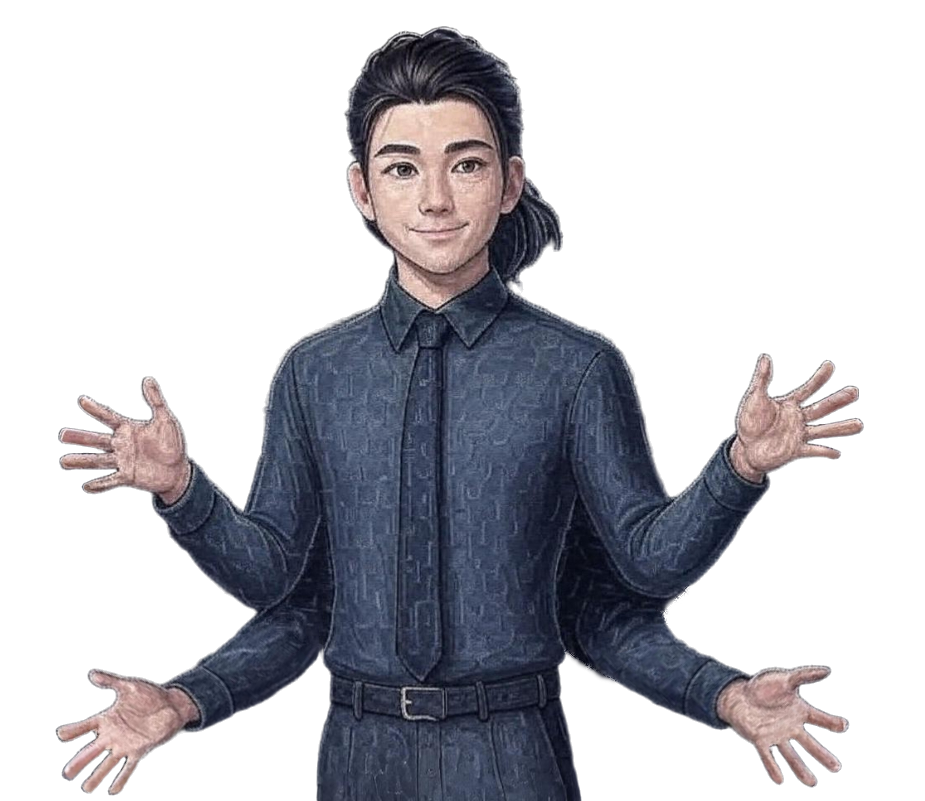
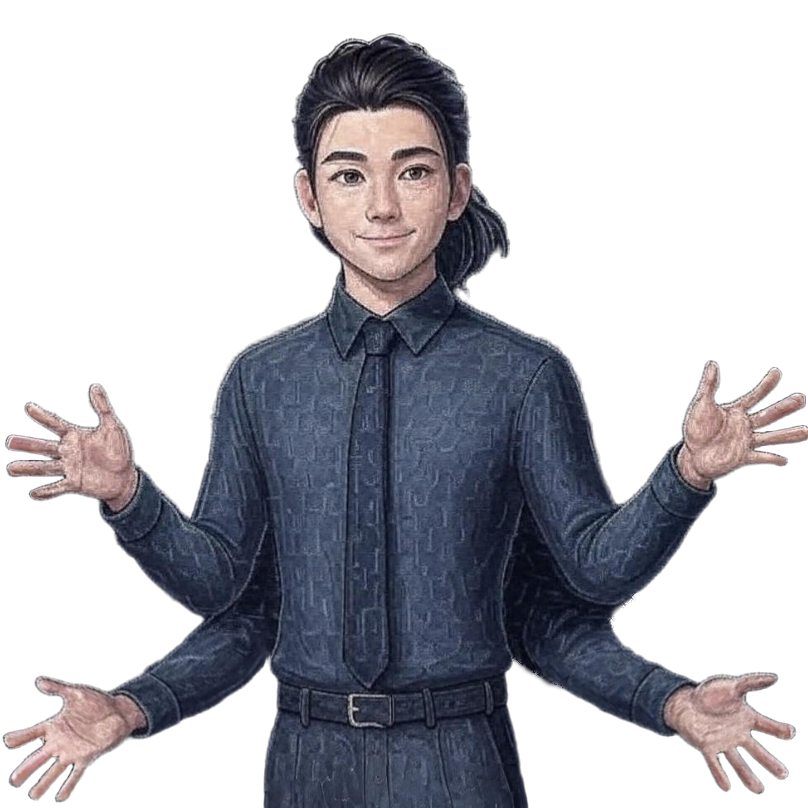
about Page personalized

Changed region(s): [[0.0, 0.0312, 1.0, 1.0]]

diff --git a/src/components/About.tsx b/src/components/About.tsx
@@ -1,63 +1,85 @@
-import { User2, Code2, Lightbulb } from "lucide-react";
+import {
+  User2,
+  Code2,
+  Lightbulb,
+  Laptop2,
+  Hammer,
+  Clock4,
+  Smile,
+  UserCheck,
+  HeartHandshake,
+  GlobeLock,
+} from "lucide-react";
 import { GoGoal } from "react-icons/go";
 import { SectionTitle } from "./ui/SectionTitle";
 
+import { BadgeCheck, Wrench, Globe2, Handshake } from "lucide-react";
+import { useState } from "react";
+
 const aboutSections = [
   {
-    icon: User2,
-    title: "Who I Am",
+    icon: BadgeCheck,
+    title: "Developer at Heart",
     description: [
-      "A full-stack developer having interest in software engineering.",
-      "Enjoy solving problems and building scalable applications.",
-      "Always learning new technologies to improve my skills.",
+      "29 y/o full-stack developer with 6+ years of hands-on experience.",
+      "Driven by curiosity, focused on clean, scalable systems.",
+      "Always evolving with new technologies.",
     ],
     color: "bg-blue-600",
+    image: "/assets/4hndsfullleft.png",
   },
   {
-    icon: Code2,
-    title: "What I Do",
+    icon: Hammer,
+    title: "Build & Boost",
     description: [
-      "Develop high-performance web apps using modern tech stacks.",
-      "Solve algorithmic problems and optimize code efficiency.",
-      "Contribute to open-source and follow industry trends.",
+      "New product? I’ll build it with the best-fit stack just for you.",
+      "Got code? I’ll optimize your code for speed, structure, and design.",
+      "Need consult? I’ll guide you to the smartest tech decisions.",
     ],
     color: "bg-purple-600",
+    image: "/assets/4hndsfullright.png",
   },
   {
-    icon: GoGoal,
-    title: "My Goals",
+    icon: Globe2,
+    title: "Timezone Friendly",
     description: [
-      "Build tech products that solve real-world challenges at scale.",
-      "Advance as a full-stack developer with modern frameworks.",
-      "Grow the dev community through open-source contributions.",
+      "Wherever you are, I adjust to your working hours.",
+      "Real-time updates, no missed messages or delays.",
+      "Your workflow stays smooth — across any time zone.",
     ],
     color: "bg-green-600",
+    image: "/assets/4hndsfulldleft.png",
   },
   {
-    icon: Lightbulb,
-    title: "My Philosophy",
+    icon: HeartHandshake,
+    title: "Easy to Work With",
     description: [
-      "Technology should simplify lives, not complicate them.",
-      "Great software solves problems, not just writes code.",
-      "Continuous learning keeps you ahead in tech.",
+      "Clear, calm, and collaborative.",
+      "Soft skills that make shipping smooth.",
+      "People-first mindset, always.",
     ],
     color: "bg-orange-600",
+    image: "/assets/4hndsfulldright.png",
   },
 ];
 
 export function About() {
+  const [activeImage, setActiveImage] = useState("/assets/4hndsfull.png");
   return (
-    <section id="about" className="min-h-screen py-20 relative overflow-hidden snap-start">
+    <section
+      id="about"
+      className="min-h-screen py-20 relative overflow-hidden snap-start"
+    >
       {/* Background Elements */}
       {/* <div className="absolute inset-0 bg-gradient-to-br from-blue-50 to-purple-50 dark:from-gray-900 dark:to-gray-800">
         <div className="absolute inset-0 bg-grid-pattern opacity-[0.06]" />
       </div> */}
 
       <div className="container mx-auto px-6 relative">
-        <SectionTitle>About Me</SectionTitle>
+        {/* <SectionTitle>About Me</SectionTitle> */}
 
         {/* Introduction */}
-        <div className="max-w-5xl mx-auto mb-16 text-center">
+        {/* <div className="max-w-5xl mx-auto mb-16 text-center">
           <p className="text-base sm:text-lg text-gray-700 dark:text-gray-300 leading-relaxed">
             Hey there! 👋 I'm <span className="text-blue-600 font-semibold">Deepak Modi</span>,
             a Full-Stack Developer and final-year Computer Science Engineering student.
@@ -70,32 +92,63 @@ export function About() {
               🚀 I like to build products and solve problems
             </span>
           </div>
-        </div>
+        </div> */}
+        {/* <img
+          src="/assets/4hndsGreen.png"
+          alt="Soheil Asami"
+          className="hidden md:block md:absolute w-full max-w-lg mx-auto md:top-[35%] lg:top-[40%]  md:left-1/2 md:-translate-x-1/2 md:-translate-y-1/2"
+        /> */}
+        <img  src={activeImage}
 
+          alt="Soheil Asami"
+          className="hidden md:block md:absolute w-full max-w-lg mx-auto md:top-[55%] lg:top-[60%]  md:left-1/2 md:-translate-x-1/2 md:-translate-y-1/2"
+        />
         {/* About Section Cards */}
-        <div className="grid md:grid-cols-2 gap-6 max-w-6xl mx-auto">
-          {aboutSections.map(({ icon: Icon, title, description, color }) => (
-            <div key={title} className="relative group">
-              {/* Background Effect */}
-              <div className={`absolute inset-0 ${color} rounded-xl blur-xl opacity-20 group-hover:opacity-60 transition-opacity duration-300 pointer-events-none`} />
-
-              {/* Card Content */}
-              <div className="relative bg-white dark:bg-gray-900 p-6 border border-gray-200 dark:border-gray-700 rounded-xl shadow-md hover:shadow-lg transition-transform duration-300 transform hover:-translate-y-1">
-                <div className="flex items-center mb-4 space-x-4">
-                  {/* Icon */}
-                  <div className={`p-3 ${color} rounded-lg`}>
-                    <Icon className="w-6 h-6 text-white" />
+        <div className="grid md:grid-cols-2 gap-8 md:gap-80 max-w-full mx-auto items-center">
+          {aboutSections.map(
+            ({ icon: Icon, title, description, color, image }, index) => (
+              <div
+                onMouseEnter={() => setActiveImage(image)}
+                onMouseLeave={() => setActiveImage("/assets/4hndsfull.png")}
+                key={title}
+                className="relative group max-w-md md:w-full md:max-w-full mx-auto"
+              >
+                {/* Card Content */}
+                <div
+                  className={`relative p-6 border md:border-0 bg-gray-50 dark:bg-gray-900 border-gray-200 dark:border-gray-700 rounded-xl shadow-md hover:shadow-lg transition-transform duration-300 transform hover:-translate-y-1`}
+                >
+                  {/* Background Effect */}
+                  <div
+                    className={`absolute inset-0 ${color} rounded-xl blur-xl opacity-0 group-hover:opacity-20 transition-opacity duration-300 pointer-events-none`}
+                  />
+                  <div className={`flex items-center mb-4 space-x-4 }`}>
+                    {/* <div className={`flex items-center mb-4 space-x-4 ${index === 0 || index === 2 ? 'items-end flex-row-reverse' : ''}`}> */}
+                    {/* Icon */}
+                    <div className={`p-3 ${color} rounded-lg`}>
+                      <Icon className="w-6 h-6 text-white" />
+                    </div>
+                    <h3 className=" text-xl font-semibold text-gray-800 dark:text-gray-100">
+                      {title}
+                    </h3>
                   </div>
-                  <h3 className="text-xl font-semibold text-gray-800 dark:text-gray-100">{title}</h3>
+                  <ul className="text-sm sm:text-base list-disc pl-6 text-gray-600 dark:text-gray-300 space-y-1">
+                    {description.map((point, index) => (
+                      <li key={index}>{point}</li>
+                    ))}
+                  </ul>
                 </div>
-                <ul className="text-sm sm:text-base list-disc pl-6 text-gray-600 dark:text-gray-300 space-y-1">
-                  {description.map((point, index) => (
-                    <li key={index}>{point}</li>
-                  ))}
-                </ul>
+                {index == 1 && (
+                  <div className="block md:hidden w-full flex justify-center my-2">
+                    <img
+                      src="/assets/4hnds.png"
+                      alt="Soheil Asami"
+                      className="md:absolute mb-16 md:mb-0 w-full max-w-lg mx-auto md:top-1/3 md:left-1/2 md:-translate-x-1/2 md:-translate-y-1/2 transform transition-transform duration-500 "
+                    />
+                  </div>
+                )}
               </div>
-            </div>
-          ))}
+            )
+          )}
         </div>
       </div>
     </section>

diff --git a/src/components/Hero.tsx b/src/components/Hero.tsx
@@ -30,7 +30,7 @@ export function Hero() {
 
       {/* Animated background with particles */}
       <div className="absolute inset-0">
-        <div className="absolute inset-0 bg-grid-pattern opacity-[0.08]" />
+        <div className="fixed inset-0 bg-grid-pattern opacity-[0.08]" />
         {/* Animated gradient orbs */}
         {/* <div className="absolute top-1/4 left-1/5 w-64 h-64 bg-blue-400/30 dark:bg-blue-600/30 rounded-full blur-3xl animate-pulse" /> */}
         <div className="absolute bottom-1/4 right-1/4 w-64 h-64 bg-purple-400/30 dark:bg-purple-600/30 rounded-full blur-3xl animate-pulse delay-1000" />
